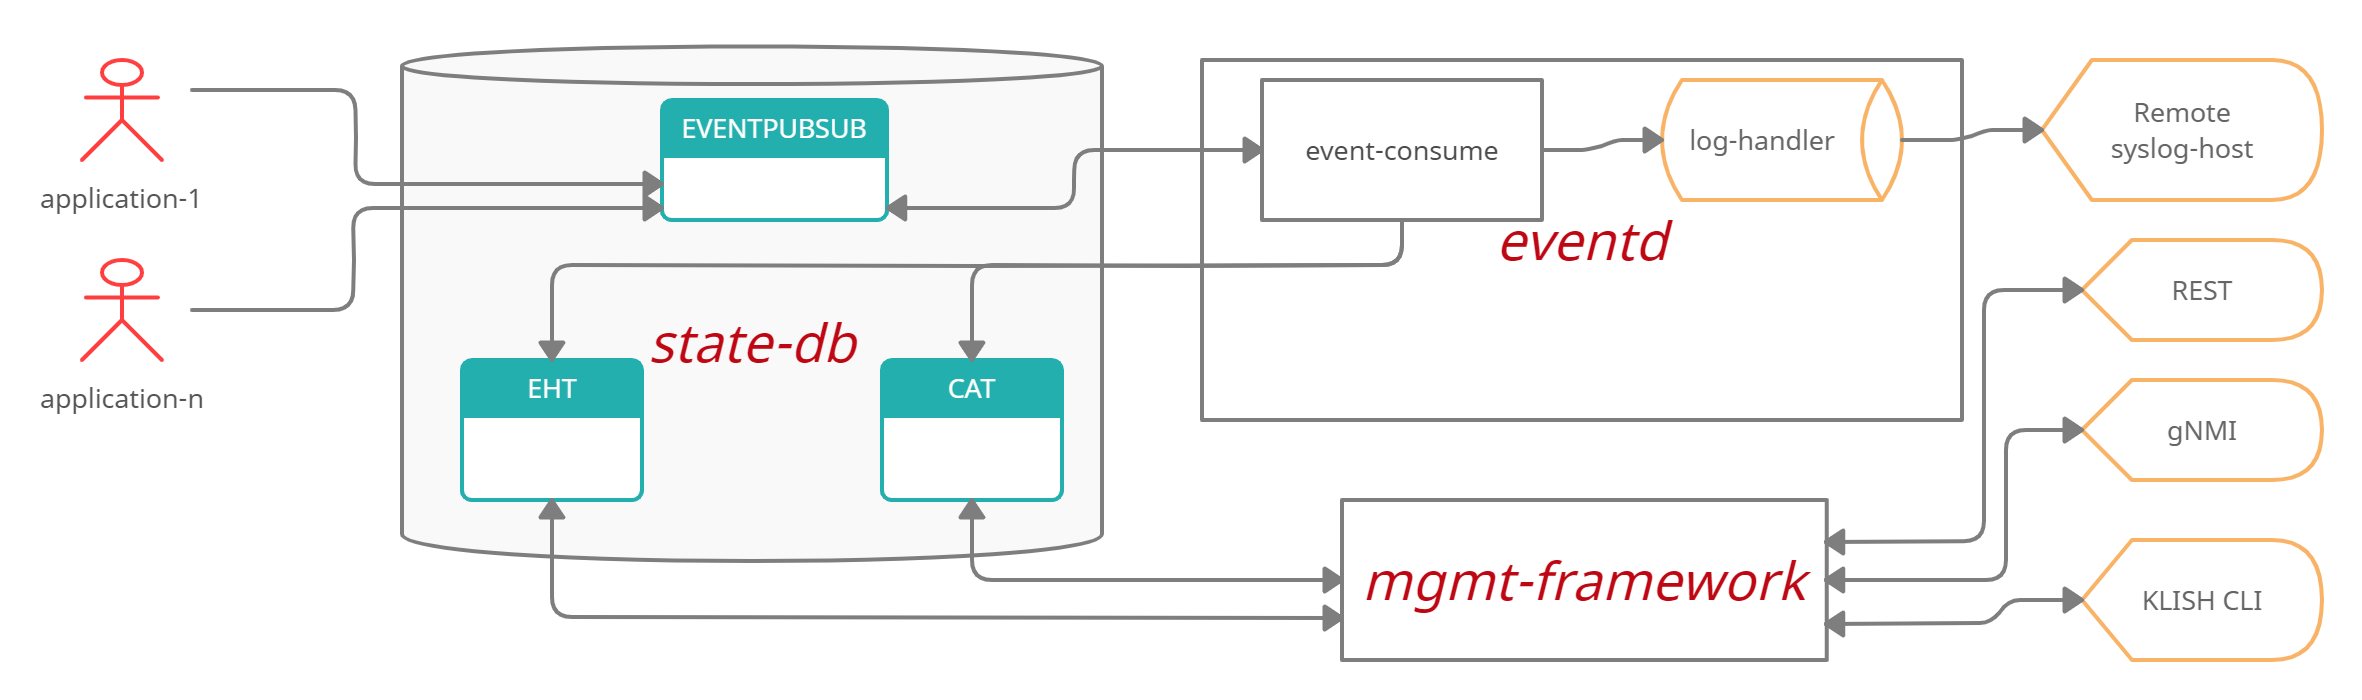
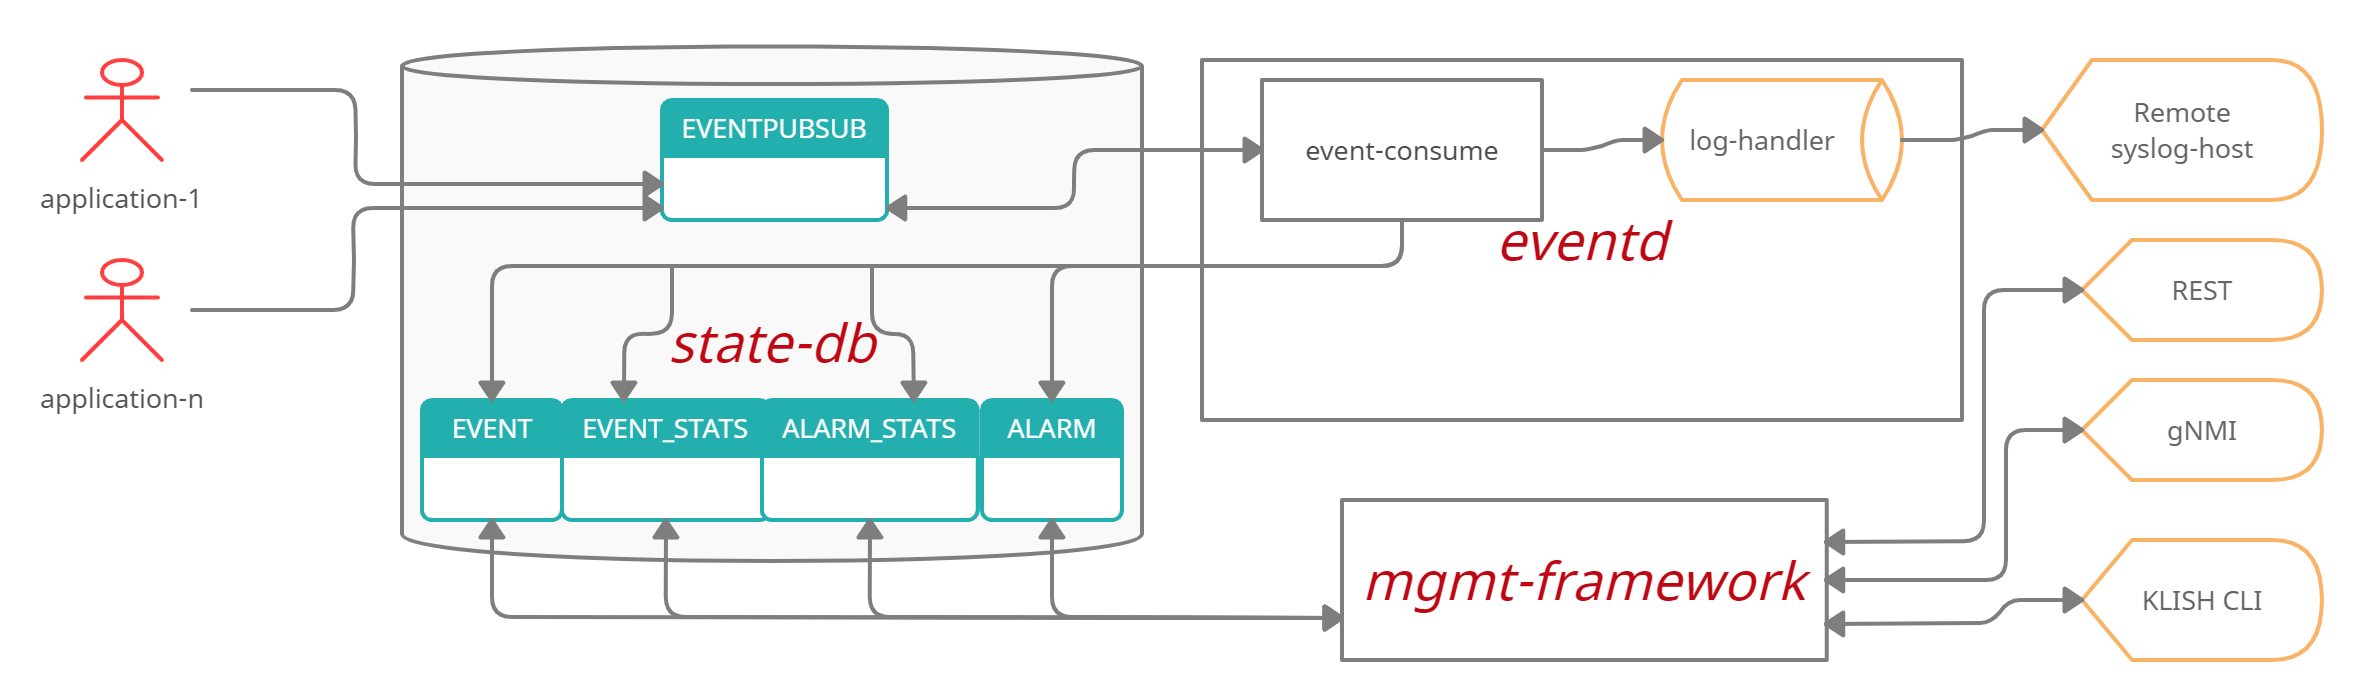
updated after review comments. Updated db table names, sequence and block diagrams. Removed few outdated data.

diff --git a/doc/event-mgmt-framework/event-mgmt-framework.md b/doc/event-mgmt-framework/event-mgmt-framework.md
@@ -4,14 +4,11 @@ Event Management Framework
 #### Rev 0.1
 
 # Table of Contents
-  * [List of Tables](#list-of-tables)
   * [Revision](#revision)
   * [About This Manual](#about-this-manual)
   * [Scope](#scope)
   * [Definition/Abbreviation](#definitionabbreviation)
 
-# List of Tables
-[Table 1: Abbreviations](#table-1-abbreviations)
 
 # Revision
 | Rev |     Date    |       Author       | Change Description                                       |
@@ -23,14 +20,6 @@ Event Management Framework
 This document provides general information about the implementation of Event Management Framework and functionality supported in phase-1 in SONiC
 # Scope
 This document describes the high-level design of Event Management Framework feature. 
-
-# Definition/Abbreviation
-
-### Table 1: Abbreviations
-| **Term**       | **Meaning**              |
-|----------------|--------------------------|
-| EHT            | Event History Table      |
-| CAT            | Current Alarm Table      |
 
 # 1 Feature Overview
 
@@ -65,18 +54,18 @@ Both stateful and stateless events get recorded in the DB.
 
 1.  Event History Table
 
-    Both stateful and stateless events get recorded in the Event History Table (EHT). EHT contains history of all events generated by the system.
-    EHT is persisted across system restarts of any kind, including restore to factory defaults and SW upgrades and downgrades.
+    Both stateful and stateless events get recorded in the table, by name "EVENT". EVENT table contains history of all events generated by the system.
+    THis table is persisted across system restarts of any kind, including restore to factory defaults and SW upgrades and downgrades.
 
 2. Current Alarm Table
 
-   All raised stateful events - alarms - get recorded in Current Alarm Table (CAT). When a component that raised the alarm clears it, the alarm record is removed from CAT.
-   An user acknowledging a particular alarm will NOT remove that alarm record from CAT.
+   All raised stateful events - alarms - get recorded in a table, by name, "ALARM". When a component that raised the alarm clears it, the alarm record is removed from ALARM table.
+   An user acknowledging a particular alarm will NOT remove that alarm record from this table.
    
-   In effect, CAT contains outstanding alarms that need to be cleared by those components who raised them.
-   CAT is NOT persisted and its contents are cleared with a reload.
+   In effect, ALARM table contains outstanding alarms that need to be cleared by those components who raised them.
+   This table is NOT persisted and its contents are cleared with a reload.
    
-In summary, the framework provides both current and historical event status of software and physical entities of the system through CAT and EHT. 
+In summary, the framework provides both current and historical event status of software and physical entities of the system through ALARM and EVENT tables. 
 
 Each event has an important characteristic: severity. It indicates how important the condition that raised the event is.
 Enterprise SONiC defines following severities for events.
@@ -187,7 +176,7 @@ REST/gNMI clients can query either table with filters - based on severity, delta
 
 ### 1.1.3 Scalability Requirements
 
-EHT should support 80k/30-day records. Considering the average size of an event to be 400 bytes, the total memory footprint of event history is ~4MB. Current active alarms are limited to total instances of unique alarms (which makes Current Alarm Table is a finite quantity)
+EVENT table should support 80k/30-day records. Considering the average size of an event to be 400 bytes, the total memory footprint of event history is ~4MB. Current active alarms are limited to total instances of unique alarms (which makes Current Alarm Table is a finite quantity)
 
 ## 1.2 Design Overview
 
@@ -200,7 +189,7 @@ Applications act as producers by writing to a table in redis state-db.
 Redis informs event consumer in eventd whenever there is new record.
 Event consumer removes the record and processes it.
 It then saves the processed entry in event history table; if the event is an alarm, record gets added to alarm table and system LED is updated. 
-Both EHT and CAT are stored under state-db.
+Both EVENT and ALARM tables are stored under state-db.
 Event consumer then informs log handler(s) to format the log message and send the message to syslog.
 Adhoc vendor custom attributes to augment native event attributes will be declared in either as a static map in the code or as a hidden read-only file for phase-1.
 
@@ -329,8 +318,8 @@ If the flag is set to enabled, it continues to process the event as follows:
 - Generate new sequence-id for the event if enable flag is set to enabled
 - Write the event to Event History Table
 - It verifies if the event is stateful. If so, it forwards the event to alarm consumer for further processing.
-    - If state is raised, add to CAT
-    - If state is clear, remove the entry from CAT
+    - If state is raised, add to ALARM table
+    - If state is clear, remove the entry from ALARM table
     - Update LED 
 - Forward the event to log handler
 
@@ -354,7 +343,7 @@ The system LED update follows the following rule:
 
 An outstanding alarm is an alarm that is either not cleared or not acknowledged by the user yet.
 
-There will be a CLI knob (alarm acknowledge) to acknowledge an alarm. On acknowledging, the system LED updates takes out acknowledged 
+There will be a provision to acknowledge an alarm through CLI/REST/gNMI. On acknowledging, the system LED updates takes out acknowledged 
 alarm into consideration.
 
 ### 3.1.4 Event Receivers
@@ -444,7 +433,7 @@ This is updated by eventd and pmon could use it to update LED accordingly.
 
 #### 3.1.4.6 Event/Alarm flooding
 There are scenarios when system enters a loop of a fault condition that makes application trigger events continuously. To avoid such
-instances flood the EHT or CAT, eventd maintains a cache of last event/alarm. Every new event/alarm is compared against this cache entry
+instances flood the EVENT or ALARM tables, eventd maintains a cache of last event/alarm. Every new event/alarm is compared against this cache entry
 to make sure it is not a flood. If it is found to be same event/alarm, the newly raised entry will be silently discarded.
 
 ### 3.1.5 Severity Profile
@@ -507,9 +496,9 @@ eventd to read and enforce them.
 
 When either of the limit is reached, the framework wraps around the table records by discarding the older records.
 
-An example of an event in EHT raised by tam.
+An example of an event in EVENT table raised by tam.
 ```
-Event History Table:
+Event Table:
 ==============================
 
 Key                       : id
@@ -576,6 +565,19 @@ The following filters are supported:
 - Recent alarms (eg., last 5 minutes, one hour, one day).
 - Records between two timestamps, one timestamp and end, and   beginning and a timestamp.
 - All records between two Sequence Numbers (incl end and begin)
+
+### 3.1.9 Supporting third party containers
+To support third party components ( e.g. FRR, teamd, DHCP Relay, LLDPd, ntpd etc ) which can not be modified to raise events, the following options are considered 
+and are being evaluated.
+1.  Patch the components
+    Create a patch for these components by adding libeventnotify library and invoke the API. This however, requires these patches need to be maintained in the code forever.
+
+2.  Listen to syslog messages
+    As many of these components raises syslog messages on an important event, a listener can be implemented to read incoming syslog messages and raise 
+    events based on the message.
+    This however is heavy on performance due to the fact that listener has to parse each syslog message. Also listener need to maintain a map of messages to 
+    event-id and need to be aware of resource and other specific details. It need to be aware of nuances of alarm raising/clearing if the component follows
+    any specific logic. 
 
 ## 3.2 DB Changes
 ### 3.2.1 CONFIG DB
@@ -700,13 +702,12 @@ sonic# alarm acknowledge <seq-id-of-raised-alarm>
 An operator can acknolwedge a raised alarm. This indicates that the operator is aware of the fault condition and considers the condition not catastrophic. 
 Acknowledging an alarm updates system LED by removing the alarm from status considration.
 
-The alarm record in the CAT is marked with is_acknowledged field set to true.
+The alarm record in the ALARM table is marked with is_acknowledged field set to true.
 
 #### 3.3.2.2 Configuration Commands
-These are implemented as RPCs.
 ```
-sonic# event severity-profile <profile-name>
-sonic# logging server <ip> [log|event] 
+sonic(config)# event severity-profile <profile-name>
+sonic(config)# logging server <ip> [log|event] 
 ```
 Note: The 'logging server' command is an existing, already supported command. 
 It is only enhanced to take either 'log' or 'event' to indicate either native syslog messages or syslog messages corresponding to events alone are sent to the remote host.
@@ -723,7 +724,7 @@ Active after restart :  mysev_prof
 
 sonic# show event [ detail | summary | severity <sev> | timestamp from <from-ts> to <to-ts> | recent <5min|1hr|1day> | sequence-id from <from-seq> to <to-seq> ] 
 
-'show event' commands would display all the records in EHT.
+'show event' commands would display all the records in EVENT table.
 
 sonic# show event 
 Sq No   State        Name                             Timestamp                   Description
@@ -783,7 +784,7 @@ Sq No   State        Name                             Timestamp                 
 
 sonic# show alarm [ detail | summary | severity <sev> | timestamp from <from-ts> to <to-ts> | recent <5min|1hr|1day> | sequence-id from <from-seq> to <to-seq> | all ]
 
-'show alarm' command would display all the active alarm records in CAT.
+'show alarm' command would display all the active alarm records in ALARM table.
 
 sonic# show alarm
   
@@ -875,11 +876,11 @@ When eventd eventually comes back up, it reads those records in the queue.
 The size of Event History Table is 86k records or 30 days worth of events which ever hits earlier with a frequency of one event per second.
 
 # 7 Unit Test
-- Raise an event and verify the fields in EHT and EVENT_STATS
-- Raise an alarm and verify the fields in CAT and ALARM_STATS
-- Clear an alarm and verify that record is removed from CAT and EVENT_STATS is udpated
-- Ack an alarm and verify that is_acknowledged flag is set to true in CAT
-- Verify wrap around for EHT ( change manifest file to a lower range and trigger that many events )
+- Raise an event and verify the fields in EVENT table and EVENT_STATS table
+- Raise an alarm and verify the fields in ALARM table and ALARM_STATS table
+- Clear an alarm and verify that record is removed from ALARM and ALARM_STATS tables are udpated
+- Ack an alarm and verify that is_acknowledged flag is set to true in ALARM table
+- Verify wrap around for EVENT table ( change manifest file to a lower range and trigger that many events )
 - Verify sequence-id for events is persistent by restarting
 - Verify counters by raising various alarms with different severities 
 - Change severity of an event through custom severity profile and verify it is logged at specified severity
